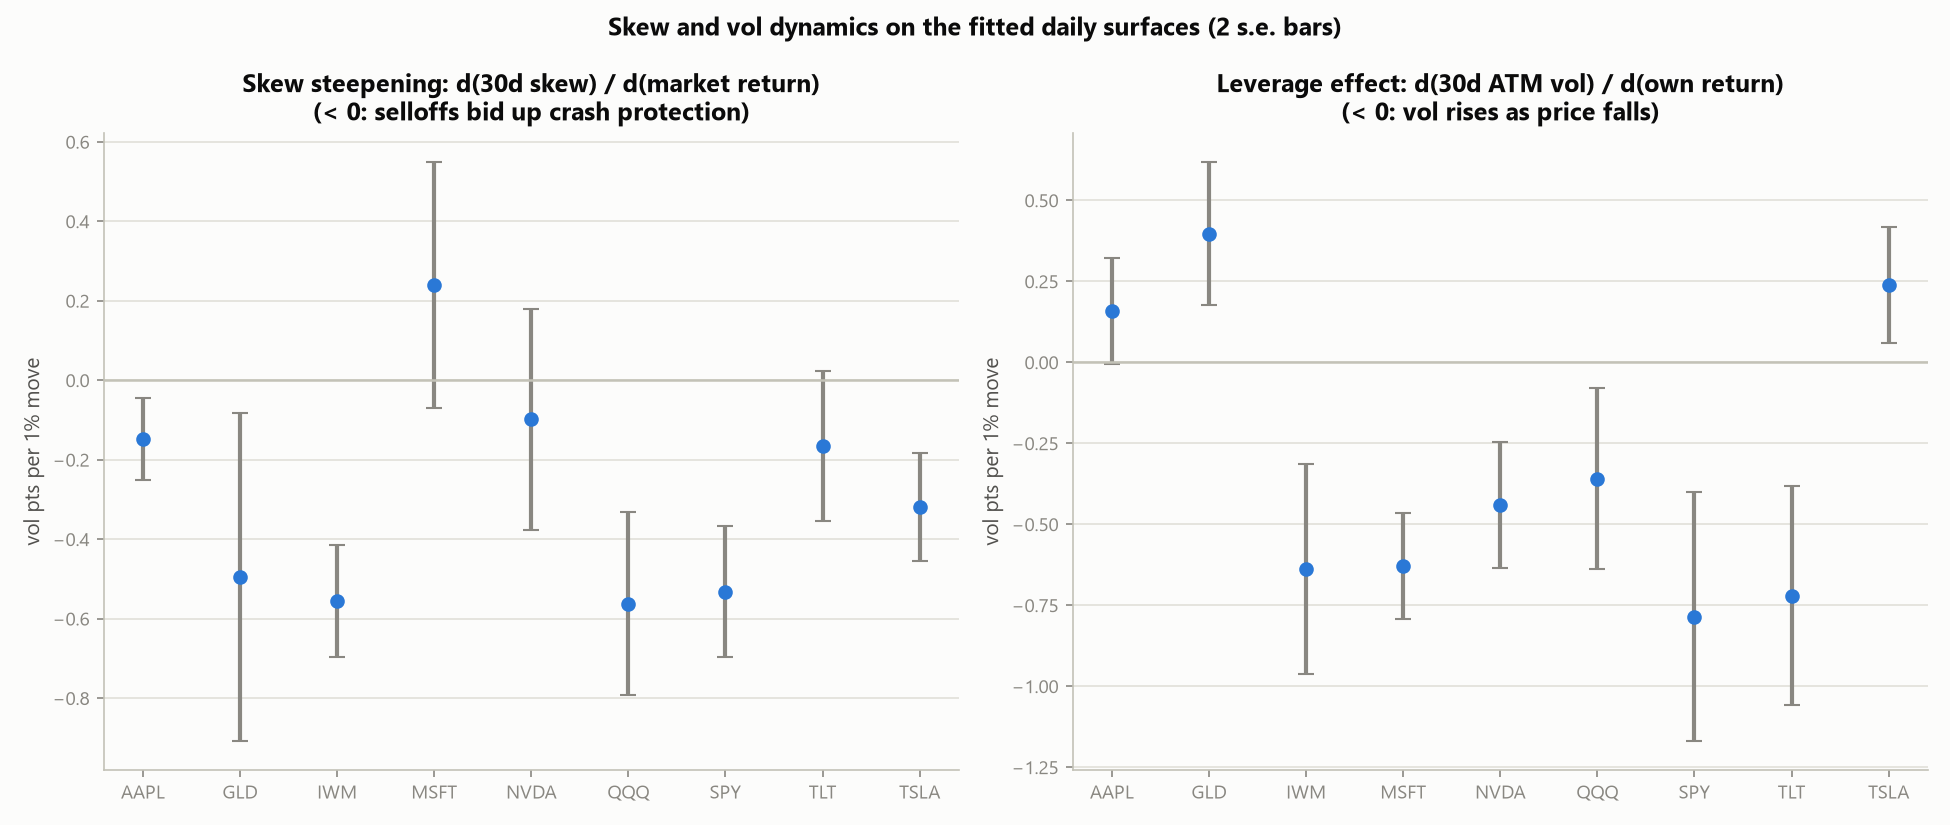
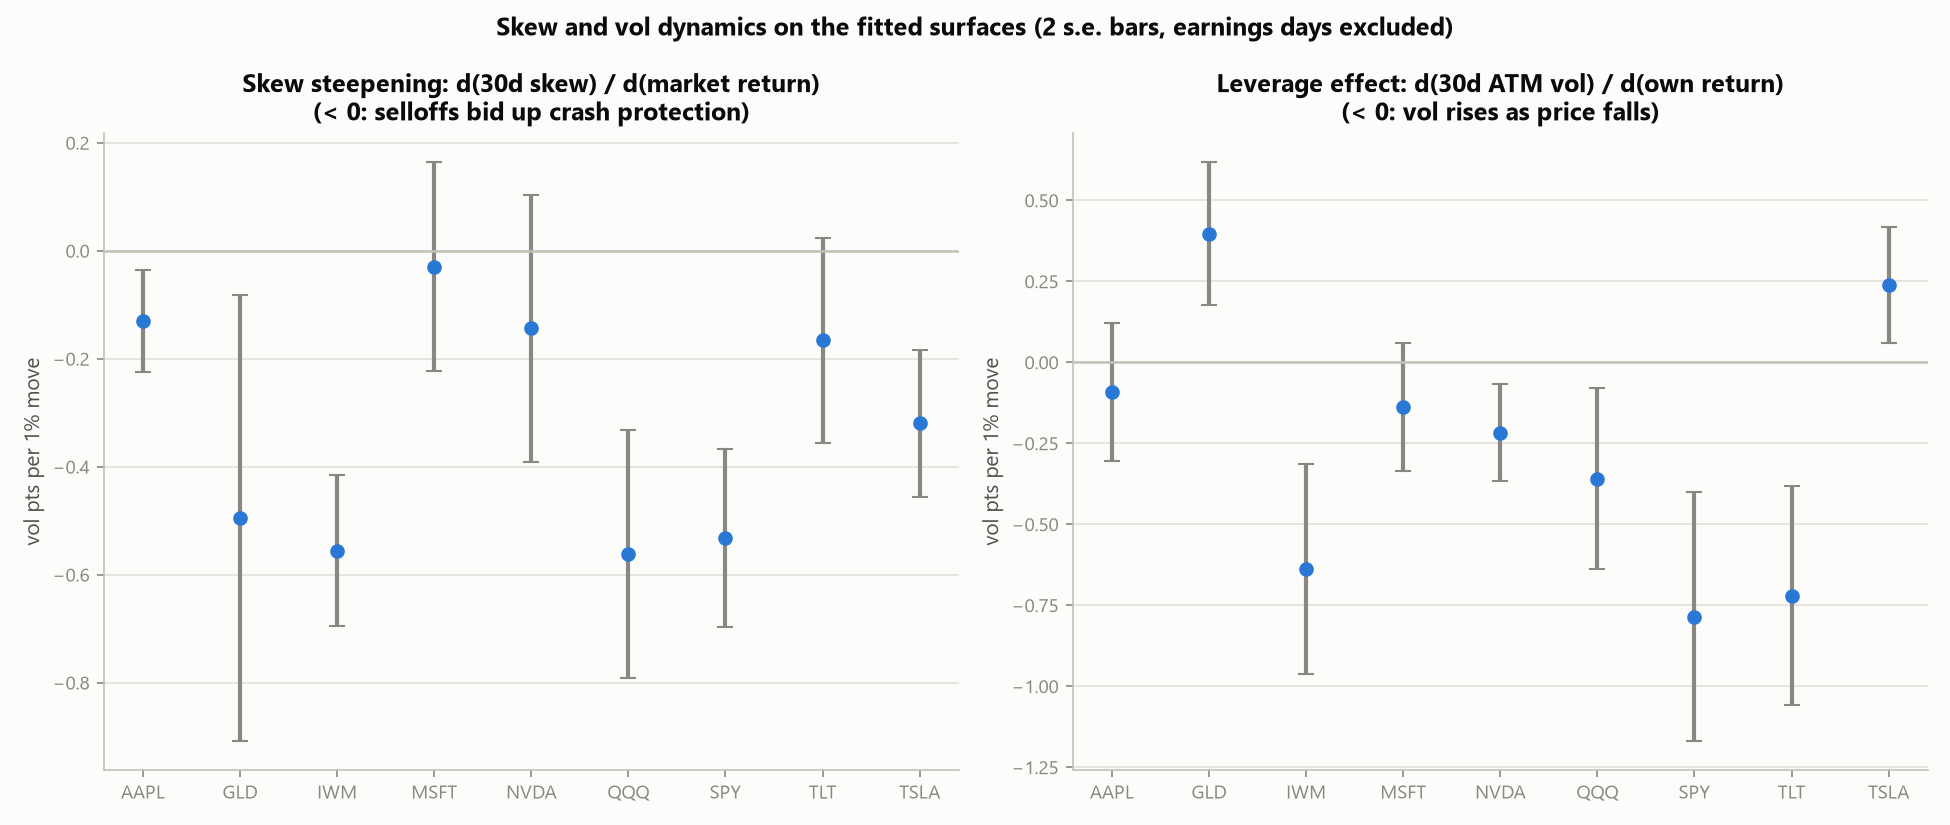
skew_dynamics: drop earnings day-pairs from the regressions
The day after an earnings release, short-dated vol collapses whichever way
the stock moved. MSFT (29 Jul, +14.4%, 30d ATM vol 44.8 -> 32.8) was a
single pair that made it read as the strongest leverage effect in the set
(-0.63, 7.7 s.e.); without it the slope is -0.14 and not significant.
AAPL (30 Jul) and NVDA (26 Aug) had the same contamination.

Exclusion uses an explicit earnings calendar known in advance, not the
endogenous vol-drop detection in event_vol.py, which would select on the
regression's own dependent variable. Test injects a crush and checks the
known slope comes back. README also stops saying the studies run nightly.

diff --git a/vol_snapshots/skew_dynamics.py b/vol_snapshots/skew_dynamics.py
@@ -19,6 +19,14 @@ is waiting for) until then; near-zero-move days carry no signal and are
 excluded; SPY's skew regression is on its own return (that is the classic
 index-skew fact, not a bug).
 
+Earnings day-pairs are dropped. The day after a release, short-dated vol
+collapses whichever way the stock moved (MSFT, 30 Jul 2026: +14.4% with 30d ATM
+vol 44.8 -> 32.8), and that one pair on its own made MSFT read as the strongest
+leverage effect in the set. ``EARNINGS`` is an explicit calendar of release
+dates, known in advance. Excluding pairs because the vol dropped (as
+``event_vol.py`` detects events) would select on the regression's own
+dependent variable, so it is not used here.
+
     python vol_snapshots/skew_dynamics.py
 
 Pinned offline by ``tests/test_skew_dynamics.py`` on histories with KNOWN
@@ -56,6 +64,21 @@ DK = 0.05                # fixed-moneyness wing for the skew measure
 MIN_MOVE = 0.001         # a pair needs at least a 0.1% move to carry signal
 MAX_GAP_DAYS = 4
 MIN_PAIRS = 15
+
+# First session that trades on each single-name earnings release in the
+# captured window (releases after the close on the day before): MSFT 29 Jul,
+# AAPL 30 Jul, NVDA 26 Aug 2026. TSLA reported 22 Jul, before capture began.
+# Add the next season's dates here before re-running over it.
+EARNINGS: Dict[str, Tuple[str, ...]] = {
+    "MSFT": ("2026-07-30",),
+    "AAPL": ("2026-07-31",),
+    "NVDA": ("2026-08-27",),
+}
+
+
+def spans_earnings(ticker: str, d0: str, d1: str) -> bool:
+    """True if the pair (d0, d1] contains an earnings reaction session."""
+    return any(d0 < d <= d1 for d in EARNINGS.get(ticker, ()))
 
 
 def skew_measure(row) -> float:
@@ -109,6 +132,8 @@ def run_study(hist: pd.DataFrame) -> Tuple[List[TickerDynamics], List[str]]:
         d_skew, r_mkt, d_atm, r_own = [], [], [], []
         for a, b in day_pairs(hist_t):
             key = (str(a["snapshot_date"]), str(b["snapshot_date"]))
+            if spans_earnings(str(ticker), *key):
+                continue
             own = float(np.log(b["spot"] / a["spot"]))
             if abs(own) >= MIN_MOVE and np.isfinite(a["atm_vol_30d"]) \
                     and np.isfinite(b["atm_vol_30d"]):
@@ -169,8 +194,8 @@ def plot_dynamics(studies: List[TickerDynamics],
         ax.set_title(title)
         ax.set_ylabel("vol pts per 1% move")
 
-    fig.suptitle("Skew and vol dynamics on the fitted daily surfaces "
-                 "(2 s.e. bars)", fontweight="bold")
+    fig.suptitle("Skew and vol dynamics on the fitted surfaces "
+                 "(2 s.e. bars, earnings days excluded)", fontweight="bold")
     fig.tight_layout()
     os.makedirs(os.path.dirname(out), exist_ok=True)
     fig.savefig(out, dpi=150)

diff --git a/tests/test_skew_dynamics.py b/tests/test_skew_dynamics.py
@@ -69,3 +69,23 @@ def test_known_dynamics_are_recovered():
 def test_skew_measure_sign_matches_rho():
     steep = make_history(n_days=1, rho_sens=0.0).iloc[0]
     assert SD.skew_measure(steep) > 0                  # rho<0 -> puts richer
+
+
+def test_earnings_pairs_are_excluded(monkeypatch):
+    """An injected post-earnings vol crush on a big up day distorts the
+    leverage slope; listed in EARNINGS, that pair is dropped and the injected
+    slope comes back."""
+    hist = make_history(n_days=40)
+    i = 20
+    d0, d1 = hist.loc[i - 1, "snapshot_date"], hist.loc[i, "snapshot_date"]
+    hist.loc[i:, "spot"] *= 1.15                        # +14% gap up ...
+    hist.loc[i:, "atm_vol_30d"] -= 0.12                 # ... with a 12-pt crush
+    monkeypatch.setattr(SD, "EARNINGS", {})
+    (dirty,), _ = SD.run_study(hist)
+    monkeypatch.setattr(SD, "EARNINGS", {"SPY": (d1,)})
+    (clean,), _ = SD.run_study(hist)
+    assert SD.spans_earnings("SPY", d0, d1)
+    assert not SD.spans_earnings("SPY", d1, d1)
+    assert clean.n_pairs == dirty.n_pairs - 1
+    assert abs(clean.beta_lev - (-1.5)) < 2 * clean.se_lev + 0.15
+    assert abs(dirty.beta_lev - clean.beta_lev) > 0.3

diff --git a/vol_snapshots/README.md b/vol_snapshots/README.md
@@ -135,9 +135,15 @@ outputs `event_vol.csv` + `charts/vol_surface/event_vol.png`.
 effect** (a name's ATM vol vs its own return — expected beta < 0), reported
 in vol points per 1% move with 2-s.e. bars. Gated at 15 matched day-pairs per
 ticker; outputs `skew_dynamics.csv` + `charts/vol_surface/skew_dynamics.png`.
+Day-pairs that span a single-name earnings release are dropped (an explicit
+calendar, `EARNINGS` in the script): the post-earnings vol crush otherwise
+dominates, and on its own it turned MSFT into the strongest "leverage effect"
+in the set (-0.63, which is -0.14 and not significant without that one day).
 
-Both studies (like `sticky.py`) run in the scheduled task every night and stay
-silent apart from an "accumulating" log line until their data threshold trips.
+Both studies (like `sticky.py`) run as part of the scheduled capture task and
+stay silent apart from an "accumulating" log line until their data threshold
+trips. The capture has not run every day since 4 September 2026, so the
+current results cover 25 July to 4 September.
 Pinned offline by `tests/test_event_vol.py` (injected synthetic event + flat
 control) and `tests/test_skew_dynamics.py` (known injected dynamics).
 
